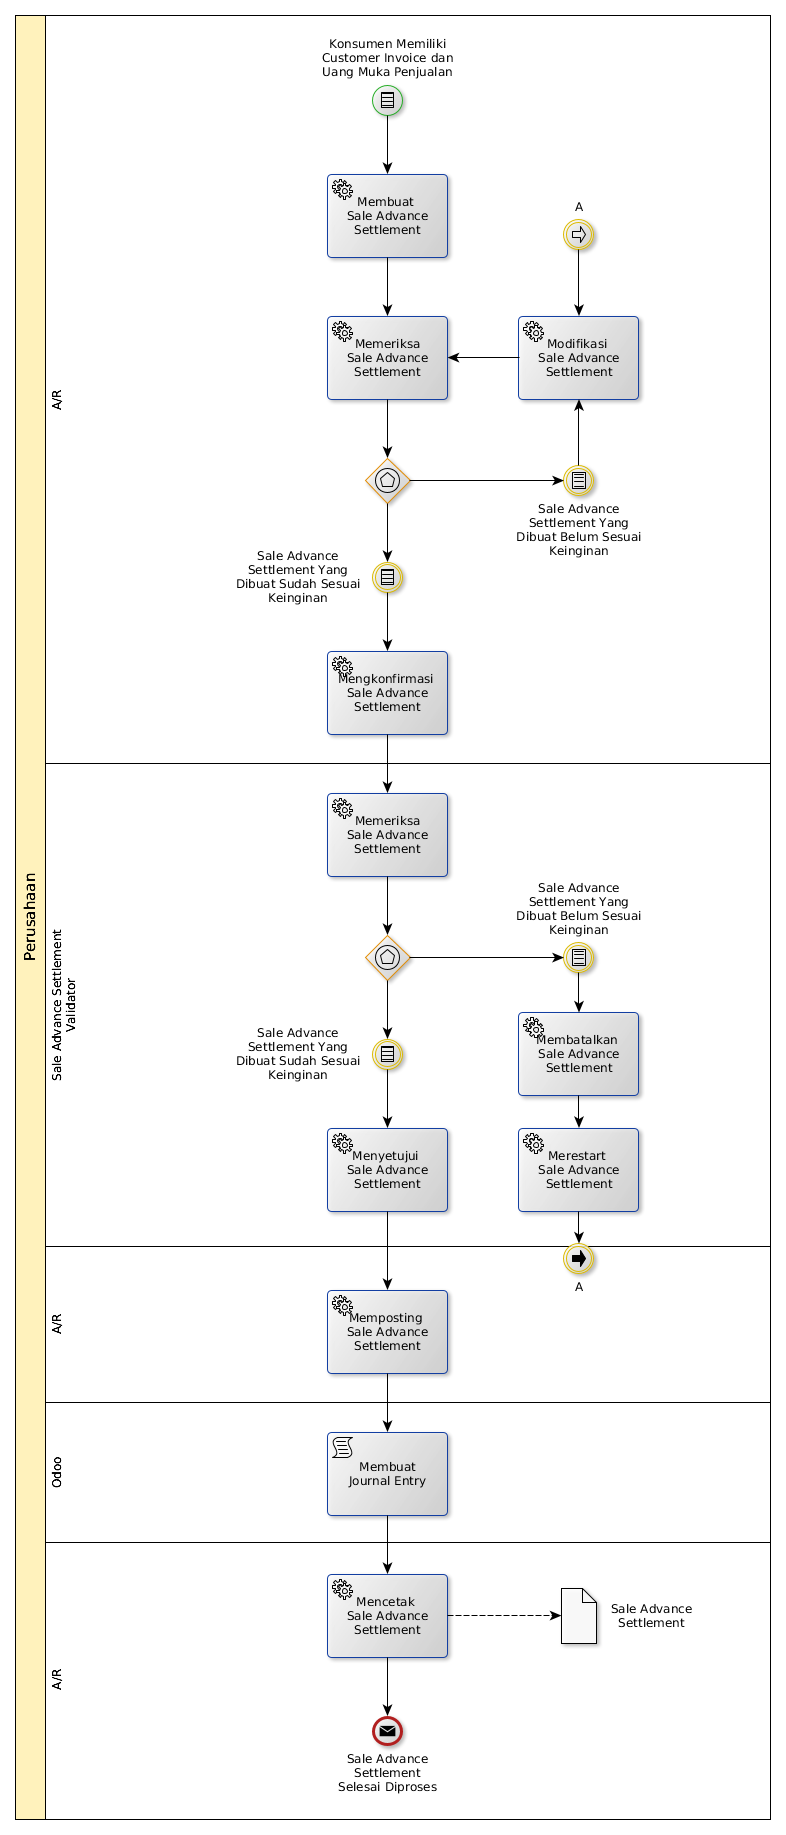
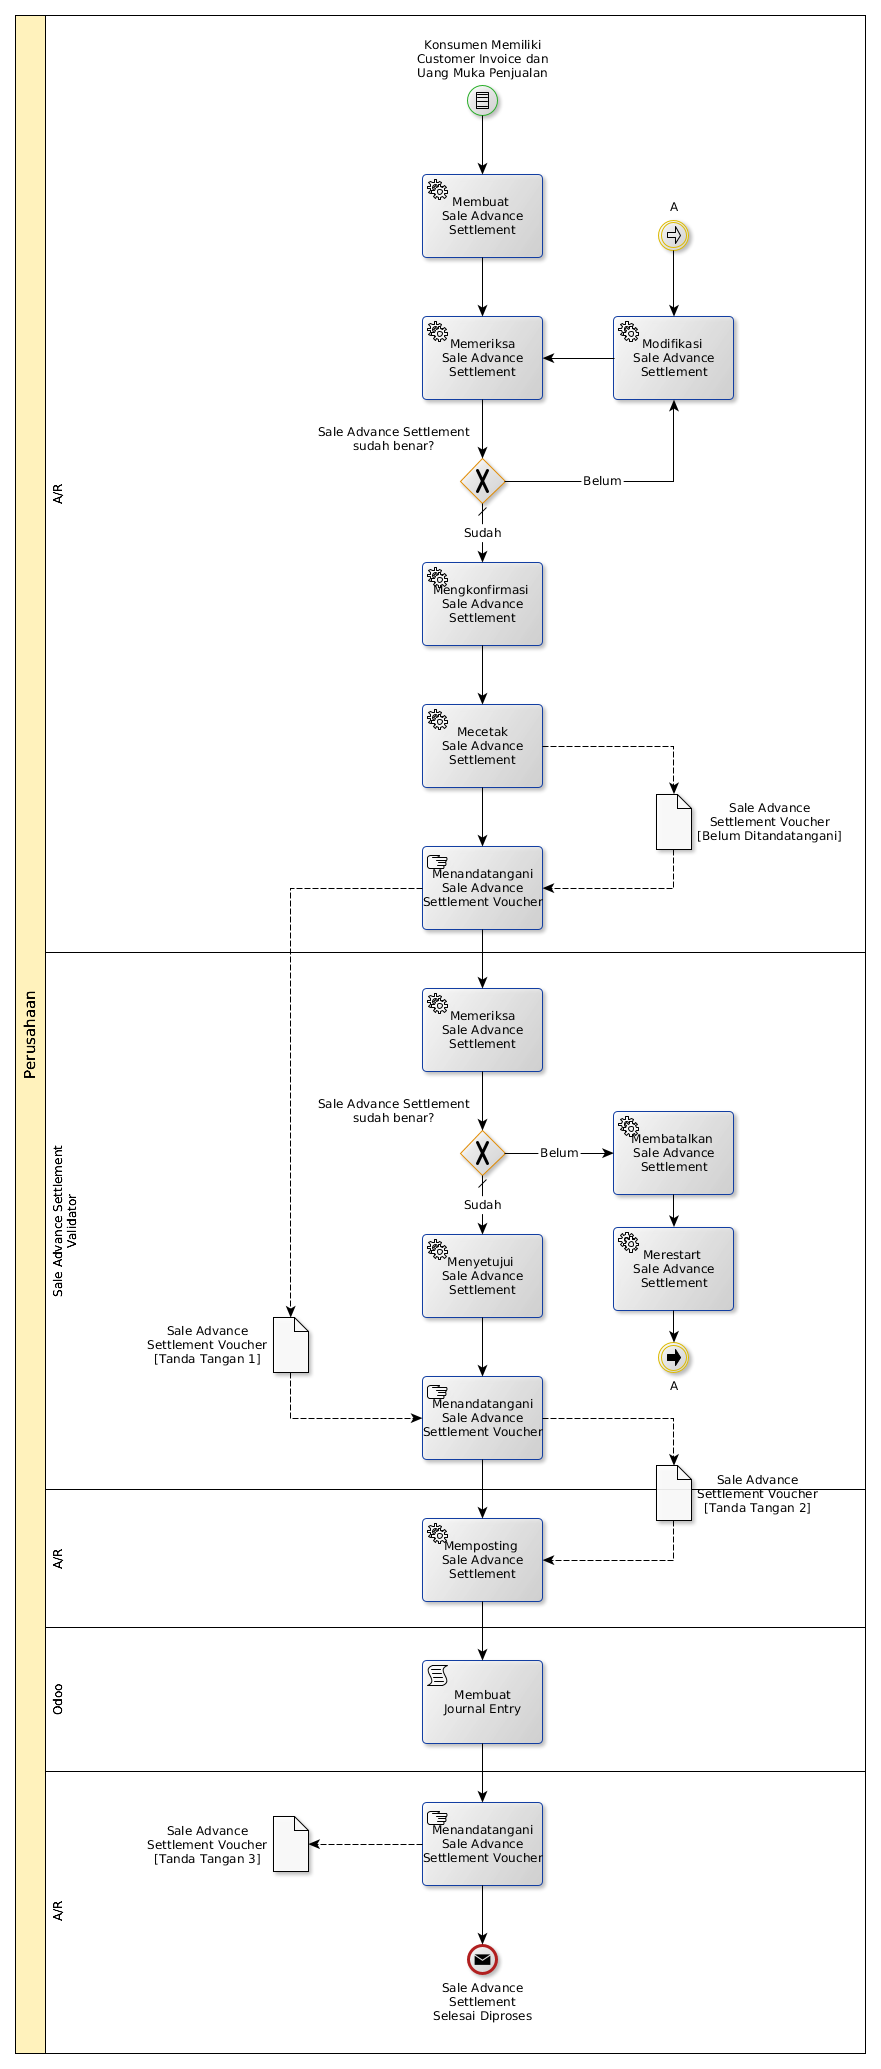
Revisi:
* Menambahkan beberapa prosedur terkait settlement uang muka penjualan
* Revisi prosedur settlement uang muka penjualan dengan customer invoice

diff --git a/src/SUMMARY.md b/src/SUMMARY.md
@@ -8,6 +8,8 @@
         - [Membatalkan Customer Invoice](./fa/membatalkan-customer-invoice.md)
         - [Merevisi Customer Invoice](./fa/merevisi-customer-invoice.md)
         - [Settlement Customer Invoice Dengan Uang Muka Penjualan](./fa/settlement-uang-muka-penjualan.md)
+        - [Merevisi Settlement Customer Invoice Dengan Uang Muka Penjualan](./fa/merevisi-settlement-uang-muka-penjualan.md)
+        - [Membatalkan Settlement Customer Invoice Dengan Uang Muka Penjualan](./fa/membatalkan-settlement-uang-muka-penjualan.md)                 
     - [A/P](./fa/ap.md)
         - [Settlement Supplier Invoice Dengan Uang Muka Pembelian](./fa/settlement-uang-muka-pembelian.md)        
     - [Bank & Kas](./fa/bank-kas.md)

diff --git a/src/fa/merevisi-settlement-uang-muka-penjualan.md b/src/fa/merevisi-settlement-uang-muka-penjualan.md
@@ -1,0 +1,18 @@
+# Merevisi Settlement Customer Invoice Dengan Uang Muka Penjualan
+
+## <a name="input">A. INPUT</a>
+
+*Condition*: Ada kebutuhan untuk merevisi sale advance settlement
+
+## <a name="role">B. ROLE YANG TERLIBAT</a>
+
+* A/R
+* Sale Advance Settlement Validator
+
+## <a name="instruksi">C. INSTRUKSI KERJA</a>
+
+![](../img/merevisi-settlement-uang-muka-penjualan.png)
+
+## <a name="output">D. OUTPUT</output>
+
+*Message*: Sale Advance Settlement selesai diproses

diff --git a/src/fa/settlement-uang-muka-penjualan.md b/src/fa/settlement-uang-muka-penjualan.md
@@ -2,7 +2,7 @@
 
 ## <a name="input">A. INPUT</a>
 
-Ada konsumen yang memiliki customer invoice dan uang muka penjualan
+*Condition*: Ada konsumen yang memiliki customer invoice dan uang muka penjualan
 
 ## <a name="role">B. ROLE YANG TERLIBAT</a>
 
@@ -59,3 +59,5 @@ Ada konsumen yang memiliki customer invoice dan uang muka penjualan
 #### C.7.1 Instruksi Kerja Utama
 
 ## <a name="output">D. OUTPUT</output>
+
+*Message*: Sale Advance Settlement selesai diproses

diff --git a/src/fa/membatalkan-settlement-uang-muka-penjualan.md b/src/fa/membatalkan-settlement-uang-muka-penjualan.md
@@ -1,0 +1,17 @@
+# Membatalkan Settlement Customer Invoice Dengan Uang Muka Penjualan
+
+## <a name="input">A. INPUT</a>
+
+*Condition*: Ada kebutuhan untuk membatalkan sale advance settlement
+
+## <a name="role">B. ROLE YANG TERLIBAT</a>
+
+* A/R
+
+## <a name="instruksi">C. INSTRUKSI KERJA</a>
+
+![](../img/membatalkan-settlement-uang-muka-penjualan.png)
+
+## <a name="output">D. OUTPUT</output>
+
+*Message*: Sale Advance Settlement dibatalkan
